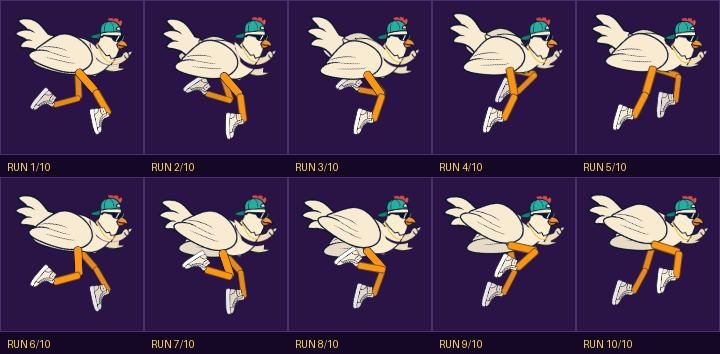
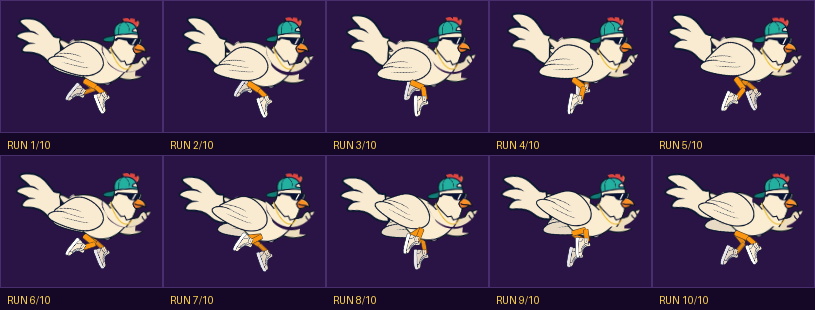
Measure the legs, shoes and ride height off the reference
The legs were the last part still built from invented numbers, which is why they
sat too high and too long and the shoes hung off the ankle.

Measured from the reference at the body's own scale (150 / body width): the hip
is where the orange meets the body, the ground is the bottom of the planted shoe,
and the shoe hangs 43px - 17 world units - below the ankle, which is the number
that had been most wrong. Leg thickness measured 18px on a 371px body, so the
tubes came down from 11 units to 7.

standH 140 -> 80, legs 106 -> 44 total, ANKLE 8 -> 17, stride retuned to what the
shortened legs can actually reach while staying planted, and gate gaps brought in
to match the smaller silhouette so the difficulty curve holds.

Claude-Session: https://claude.ai/code/session_01GPMrTdwpCZtjDF6U8tWZ25

diff --git a/index.html b/index.html
@@ -468,9 +468,9 @@ const CK = {
   bodyTilt:0,
   headX:42, headY:-34, headR:32, // = the head's position in the reference itself
   wingX:-4, wingY:-4,  wingA:58, wingB:46,
-  hipX:-20, hipY:30,
-  thigh:54, shin:52, ANKLE:15,
-  standH:140
+  hipX:-26, hipY:33,             // = where the legs meet the body in the reference
+  thigh:23, shin:21, ANKLE:17,   // = hip->ankle measured; the shoe hangs 17 below
+  standH:80
 };
 const HATS = ['cap_snapback','hat_bucket'];
 
@@ -522,7 +522,7 @@ function setLegs(p, ax,ay, bx,by){
 /* ---- the poses ---- */
 /* wing angles: 0 = straight down, more negative = further up */
 function poseRun(ph, speedT, p){
-  const stride=lerp(104,128,speedT), lift=lerp(58,76,speedT), bob=lerp(8,11,speedT);
+  const stride=lerp(44,52,speedT), lift=lerp(22,30,speedT), bob=lerp(5,7,speedT);
   p.y = bob*Math.cos(4*Math.PI*(ph-0.12));
   p.x = 2*Math.sin(4*Math.PI*ph);
   p.rot = lerp(0.08,0.24,speedT) + 0.02*Math.sin(4*Math.PI*ph);
@@ -580,7 +580,7 @@ function poseFly(ph, power, vy, p){
   p.wingF = p.wingN + 0.18;
   p.tipN = tip*amp; p.tipF = tip*0.88*amp;
   p.wingOpen = 1;
-  setLegs(p, -28, 20, -36, 13);                     // feet tucked
+  setLegs(p, -18, 16, -24, 10);                     // feet tucked
   p.tail = tail;
   p.sx = 1 - by*0.005; p.sy = 1 + by*0.005;         // stretches on the upbeat
   return p;
@@ -593,7 +593,7 @@ function poseGlide(t, vy, p){
   const tr = Math.sin(t*22)*0.05*k;
   p.wingN = -1.62 + tr; p.wingF = -1.50 - tr;      // wings held out, trembling in the dive
   p.tipN = 0.16; p.tipF = 0.16; p.wingOpen = 1;
-  setLegs(p, lerp(-20,-30,k), lerp(28,20,k), lerp(-30,-38,k), lerp(22,14,k));
+  setLegs(p, lerp(-13,-19,k), lerp(20,15,k), lerp(-19,-25,k), lerp(16,11,k));
   p.tail = 0.24*k;
   p.sx = 1+0.04*k; p.sy = 1-0.04*k;
   return p;
@@ -602,7 +602,7 @@ function poseLand(k, p){
   p.y = 16*k; p.x = 3*k; p.rot = 0.30*k;
   p.headDY = -8*k; p.headR = -0.24*k;
   const gy = CK.standH - CK.hipY - CK.ANKLE - p.y;
-  setLegs(p, 16-CK.hipX, gy, -14-CK.hipX, gy);
+  setLegs(p, 12-CK.hipX, gy, -11-CK.hipX, gy);
   p.wingN = -1.25-0.5*k; p.wingF = -1.15-0.5*k;
   p.tipN = 0.5; p.tipF = 0.5; p.wingOpen = lerp(0.5,1,k);
   p.tail = -0.2*k;
@@ -615,7 +615,7 @@ function poseIdle(t, p){
   p.headDY = -p.y*1.1 + 0.6*Math.sin(t*1.3);
   p.headR = 0.03*Math.sin(t*1.1);
   const gy = CK.standH - CK.hipY - CK.ANKLE - p.y;
-  setLegs(p, 17-CK.hipX, gy, -16-CK.hipX, gy-1);
+  setLegs(p, 12-CK.hipX, gy, -11-CK.hipX, gy-1);
   p.wingN = -0.52; p.wingF = -0.46; p.tipN = 0.34; p.tipF = 0.34;
   p.wingOpen = 0.34; p.tail = 0.06*br; p.sx=1; p.sy=1;
   return p;
@@ -625,7 +625,7 @@ function posePeck(u, p){                            // menu beat: he pecks the g
   p.y = 5*k; p.x = 4*k; p.rot = 0.24*k;          // a horizontal body needs far less pitch
   p.headDY = 26*k; p.headDX = 14*k; p.headR = 0.75*k;
   const gy = CK.standH - CK.hipY - CK.ANKLE - p.y;
-  setLegs(p, 17-CK.hipX, gy, -16-CK.hipX, gy);
+  setLegs(p, 12-CK.hipX, gy, -11-CK.hipX, gy);
   p.wingN = -0.50-0.3*k; p.wingF = -0.44-0.3*k; p.tipN=0.34; p.tipF=0.34;
   p.wingOpen = 0.36; p.tail = 0.4*k; p.sx=1+0.04*k; p.sy=1-0.04*k;
   return p;
@@ -636,7 +636,7 @@ function poseStrut(t, u, p){                        // menu beat: cocky little s
   p.y = 3*k*s; p.x = 2*k; p.rot = -0.06*k;
   p.headDY = -4*k - 3*k*s; p.headR = 0.16*k;
   const gy = CK.standH - CK.hipY - CK.ANKLE - p.y;
-  setLegs(p, (17+8*s)-CK.hipX, gy, (-16-8*s)-CK.hipX, gy);
+  setLegs(p, (12+6*s)-CK.hipX, gy, (-11-6*s)-CK.hipX, gy);
   p.wingN = -0.66-0.2*k; p.wingF = -0.60-0.2*k; p.tipN=0.4; p.tipF=0.4;
   p.wingOpen = 0.5; p.tail = -0.2*k; p.sx=1; p.sy=1;
   return p;
@@ -646,7 +646,7 @@ function poseHurt(k, p){                            // the instant of impact
   p.headDY = 6*k; p.headDX = -10*k; p.headR = -0.5*k;
   p.wingN = -2.5*k-0.4; p.wingF = -2.6*k-0.4;
   p.tipN = -0.5*k; p.tipF = -0.5*k; p.wingOpen = 1;
-  setLegs(p, 26*k-10, 30, 34*k-16, 24);
+  setLegs(p, 17*k-7, 21, 22*k-11, 17);
   p.tail = 0.5*k;
   p.sx = 1+0.26*k; p.sy = 1-0.20*k;
   return p;
@@ -656,7 +656,7 @@ function poseSit(k, t, p){                          // dazed on the ground after
   p.y = 22*k; p.x = 0; p.rot = -0.10*k + 0.05*wob;
   p.headDY = 4*k; p.headR = 0.12*k + 0.14*wob;
   const gy = CK.standH - CK.hipY - CK.ANKLE - p.y;
-  setLegs(p, lerp(17,34,k)-CK.hipX, gy, lerp(-16,26,k)-CK.hipX, gy);
+  setLegs(p, lerp(12,24,k)-CK.hipX, gy, lerp(-11,18,k)-CK.hipX, gy);
   p.wingN = lerp(-0.5,-0.16,k); p.wingF = lerp(-0.44,-0.10,k);
   p.tipN = 0.3; p.tipF = 0.3; p.wingOpen = lerp(0.36,0.62,k);
   p.tail = 0.3*k; p.sx = 1+0.10*k; p.sy = 1-0.12*k;
@@ -667,7 +667,7 @@ function poseCheer(t, p){                           // beat your own record
   p.y = -12*b; p.x = 0; p.rot = -0.12-0.06*b;
   p.headDY = -3*b; p.headR = 0.18+0.08*b;
   const gy = CK.standH - CK.hipY - CK.ANKLE - p.y;
-  setLegs(p, 14-CK.hipX, gy-12*b, -13-CK.hipX, gy-6*b);
+  setLegs(p, 10-CK.hipX, gy-9*b, -9-CK.hipX, gy-5*b);
   p.wingN = -2.5-0.25*b; p.wingF = -2.6+0.25*b;
   p.tipN = 0.2; p.tipF = 0.2; p.wingOpen = 1;
   p.tail = -0.35; p.sx = 1-0.05*b; p.sy = 1+0.07*b;
@@ -752,7 +752,7 @@ function drawShoePart(kx,ky,fx,fy,col,far){
   ctx.restore();
 }
 function drawSneaker(kx,ky,fx,fy,col){
-  const a=Math.atan2(fx-kx,fy-ky)*0.5;      // the sole stays flatter than the shin
+  const a=Math.atan2(fx-kx,fy-ky)*0.32;     // the sole stays flatter than the shin
   ctx.save(); ctx.translate(fx,fy); ctx.rotate(-a+Math.PI/2);
   ctx.beginPath(); ctx.roundRect(-15,-15,48,22,[11,15,5,11]); cp(col,5);
   ctx.beginPath(); ctx.roundRect(-17,2,53,13,6.5); cp(CKC.shoe,4.2);
@@ -873,9 +873,9 @@ loadPart('body','art/part-bodyref.png', {w:150, ax:0.5000, ay:0.5000});
 loadPart('headref','art/part-headref.png',{w:84, ax:0.5146, ay:0.4978});
 loadPart('head','art/part-head.png',    {w:78, ax:0.4324, ay:0.4607});   // bare head, for other hats
 loadPart('wing','art/part-wing.png', {w:90,   ax:0.6240, ay:0.0852, rot:-0.445});
-loadPart('wingfold','art/part-wingfold.png', {w:82, ax:0.6158, ay:0.0824, rot:-0.162});
+loadPart('wingfold','art/part-wingfold.png', {w:62, ax:0.6158, ay:0.0824, rot:-0.162});
 loadPart('tail','art/part-tail.png', {w:78,   ax:0.9900, ay:0.6989});
-loadPart('shoe','art/part-shoe.png', {w:52,   ax:0.3413, ay:0.020});
+loadPart('shoe','art/part-shoe.png', {w:36,   ax:0.2200, ay:0.220});
 loadPart('leg', 'art/part-leg.png',  {w:17,  ax:0.50, ay:0.00});
 
 /* ---- the head, drawn in the same language as the body ---- */
@@ -1005,8 +1005,8 @@ function drawChicken(x, y, p){
   ctx.scale(p.sx, p.sy);
 
   // far leg
-  drawBone(CK.hipX,CK.hipY, CK.hipX+p.kFx,CK.hipY+p.kFy, 9, CKC.legDark, true);
-  drawBone(CK.hipX+p.kFx,CK.hipY+p.kFy, CK.hipX+p.fFx,CK.hipY+p.fFy, 8, CKC.legDark, true);
+  drawBone(CK.hipX,CK.hipY, CK.hipX+p.kFx,CK.hipY+p.kFy, 6, CKC.legDark, true);
+  drawBone(CK.hipX+p.kFx,CK.hipY+p.kFy, CK.hipX+p.fFx,CK.hipY+p.fFy, 5, CKC.legDark, true);
   drawShoePart(CK.hipX+p.kFx,CK.hipY+p.kFy, CK.hipX+p.fFx,CK.hipY+p.fFy, CKC.shoeDark, true);
 
   // far wing
@@ -1073,8 +1073,8 @@ function drawChicken(x, y, p){
   drawWingPart(CK.wingX, CK.wingY, p.wingN, p.tipN, p.wingOpen, CKC.wing, false);
 
   // near leg
-  drawBone(CK.hipX,CK.hipY, CK.hipX+p.kNx,CK.hipY+p.kNy, 11, CKC.leg, false);
-  drawBone(CK.hipX+p.kNx,CK.hipY+p.kNy, CK.hipX+p.fNx,CK.hipY+p.fNy, 10, CKC.leg, false);
+  drawBone(CK.hipX,CK.hipY, CK.hipX+p.kNx,CK.hipY+p.kNy, 7, CKC.leg, false);
+  drawBone(CK.hipX+p.kNx,CK.hipY+p.kNy, CK.hipX+p.fNx,CK.hipY+p.fNy, 6, CKC.leg, false);
   drawShoePart(CK.hipX+p.kNx,CK.hipY+p.kNy, CK.hipX+p.fNx,CK.hipY+p.fNy, CKC.shoe, false);
 
   if(game.rig){                                   // pivot overlay for aligning parts
@@ -1134,7 +1134,7 @@ const rag = {
     p.tipN = damp(p.tipN, -0.4, 6, dt); p.tipF = p.tipN;
     p.wingOpen = damp(p.wingOpen, 1, 8, dt);
     p.tail = damp(p.tail, 0.5, 5, dt);
-    setLegs(p, -6+Math.sin(t*13)*16, 34, -14+Math.sin(t*13+1.6)*16, 30);
+    setLegs(p, -4+Math.sin(t*13)*11, 24, -9+Math.sin(t*13+1.6)*11, 21);
     p.headR = damp(p.headR, 0.5*Math.sin(t*9), 7, dt);
     p.sx = damp(p.sx,1,8,dt); p.sy = damp(p.sy,1,8,dt);
     p.x=0; p.y=0;
@@ -1709,7 +1709,7 @@ const GATE_TOPS  = ['cone','duck','cake','ball','box','coffee'];
 const GATE_HANGS = ['sofa','sign','vacuum','cart','coffee'];
 function spawnGate(moving){
   const band = GROUND - CEIL;
-  const gap  = clamp(lerp(500, 290, game.diff) * rnd(0.92,1.08), 250, 560);
+  const gap  = clamp(lerp(380, 225, game.diff) * rnd(0.92,1.08), 200, 430);
   const amp  = moving ? rnd(50, 110) : 0;
   const margin = 80 + amp;
   const lo = gap/2 + margin, hi = band - gap/2 - margin;
@@ -2046,7 +2046,7 @@ function updatePlay(dt){
   if(game.spawnT<=0) spawnPattern();
 
   // ---- obstacles ----
-  const pl = p.x-52, pr = p.x+52, pb = p.y+12, pt = p.y+206;
+  const pl = p.x-48, pr = p.x+48, pb = p.y+8, pt = p.y+150;
   for(let i=game.obstacles.length-1;i>=0;i--){
     const o = game.obstacles[i];
     o.x += (o.vx||0)*dt;
